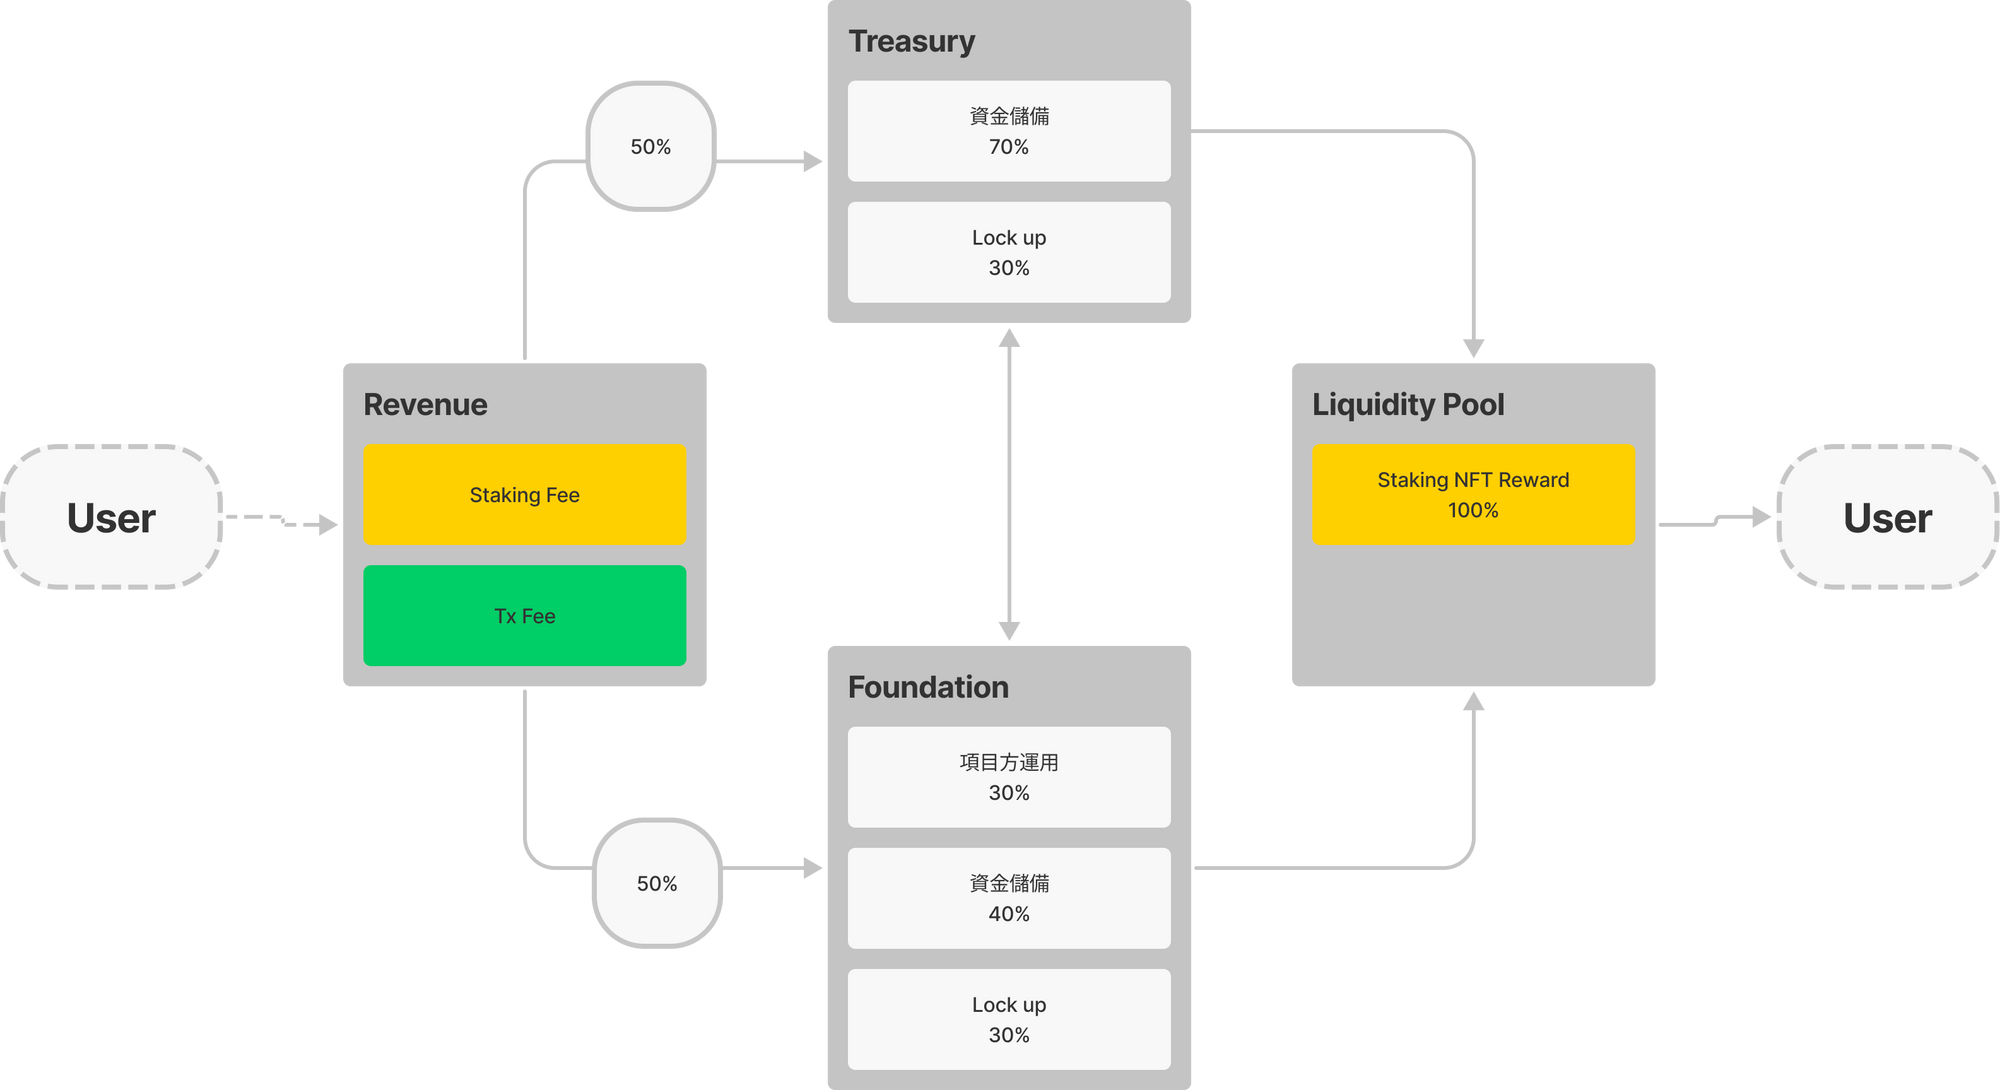
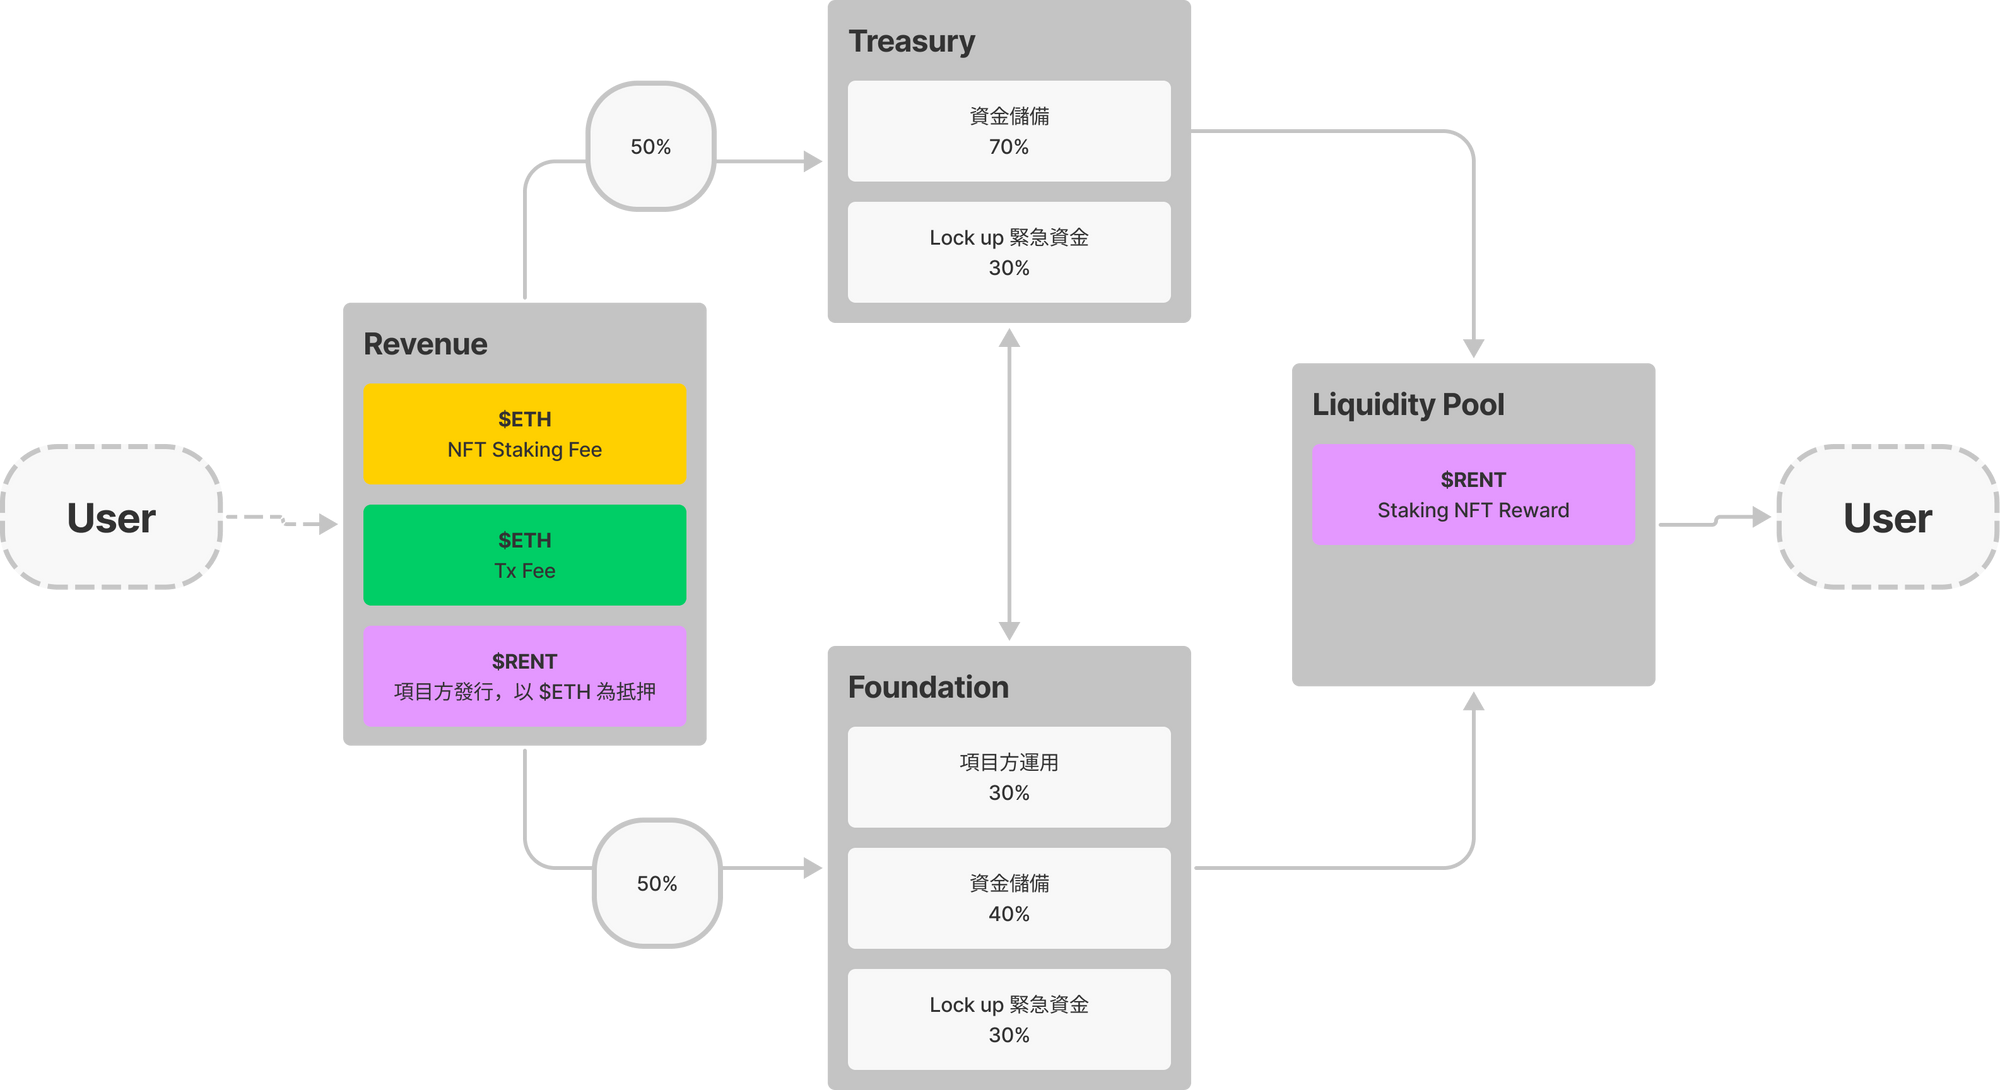
update tokenomic and roadmap and fix bug for number overflow

diff --git a/src/components/Home/Section2.tsx b/src/components/Home/Section2.tsx
@@ -15,7 +15,7 @@ export const Section2 = () => {
         </div>
         <img src={tokenomic} alt="" className="tokenomic" />
 
-        <div className="flex-as flex-jb">
+        <div className="flex-as flex-jb wrap">
           <div style={{ width: '50%' }}>
             <div className="content-title">
               收益來源：
@@ -35,6 +35,16 @@ export const Section2 = () => {
             <div className="content-desc">
               <strong>國庫</strong>：70% 資金儲備、30% 為鎖倉的緊急資金<br />
               <strong>項目基金會</strong>：40% 資金儲備、30% 提供項目方運用、30% 為鎖倉的緊急資金
+            </div>
+          </div>
+          <div style={{ width: '100%',marginTop: '2rem' }}>
+            <div className="content-title">
+              資金運用：
+            </div>
+            <div className="content-desc">
+            <strong>資金儲備</strong>：以 $ETH 作為支持平台代幣 $RENT 發行的資金儲備 ，確保平台代幣 $RENT 的價值，<br />
+            <strong>緊急資金</strong>：當平台出現重大危機時，項目方經過多數而決議動用的資金。<br />
+            <strong>項目方運用</strong>：由項目方自由運用的資金，其用途將會載明於財務報告中，透過適當管道公開發佈。
             </div>
           </div>
 

diff --git a/src/components/Profile.tsx b/src/components/Profile.tsx
@@ -287,18 +287,18 @@ export const Profile = () => {
                     </h5>
                   </div>
                   {
-                    !x?.price?.toNumber() ? '' : <div>
+                    !x?.price?.toString() ? '' : <div>
                       <i className="fa-brands fa-ethereum"></i>
                       <h5 className="grey-text">租金(ETH)</h5>
-                      <h5 className="grey-text">{ethers.utils.formatEther(x?.price?.toNumber() || 0)}</h5>
+                      <h5 className="grey-text">{ethers.utils.formatEther(x?.price?.toString() || 0)}</h5>
                     </div>
                   }
                   {
                     (type == 'all' || type == 'myMarketItems') && (
-                      !x?.deposit?.toNumber() ? '' : <div>
+                      !x?.deposit?.toString() ? '' : <div>
                       <i className="fa-brands fa-ethereum"></i>
                       <h5 className="grey-text">押金(ETH)</h5>
-                      <h5 className="grey-text">{ethers.utils.formatEther(x?.deposit?.toNumber() || 0)}</h5>
+                      <h5 className="grey-text">{ethers.utils.formatEther(x?.deposit?.toString() || 0)}</h5>
                     </div>
                     )
                   }

diff --git a/src/components/Home/Section4.tsx b/src/components/Home/Section4.tsx
@@ -49,10 +49,9 @@ export const Section4 = () => {
               Q2  2022
             </div>
             <div className="item-content">
-              → 拿回押金功能<br />
-              → 歸還功能<br />
-              → 質押NFT獲取Token 獎勵功能開發<br />
-              → Coming soon
+              → 租賃歸還，押金機制<br />
+              → 質押 NFT 獲取平台代幣 $RENT 的獎勵功能開發<br />
+              → More & more ...
             </div>
           </div>
         </div>

diff --git a/src/components/RentModal.tsx b/src/components/RentModal.tsx
@@ -41,6 +41,7 @@ export const RentModal = (props: any) => {
   );
 
   const rent = async () => {
+    console.log(curretSelect?.itemId, 'curretSelect?.itemId')
     const result = await rentMarketItem({
       args: [
         curretSelect?.nftContract, //nftContract
